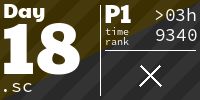
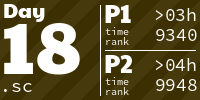
feat(day18): part 2

diff --git a/README.md b/README.md
@@ -2,7 +2,7 @@
 
 <!-- AOC TILES BEGIN -->
 <h1 align="center">
-  2024 - 35 ⭐ - SuperCollider
+  2024 - 36 ⭐ - SuperCollider
 </h1>
 <a href="2024/day01.sc">
   <img src=".aoc_tiles/tiles/2024/01.png" width="161px">
